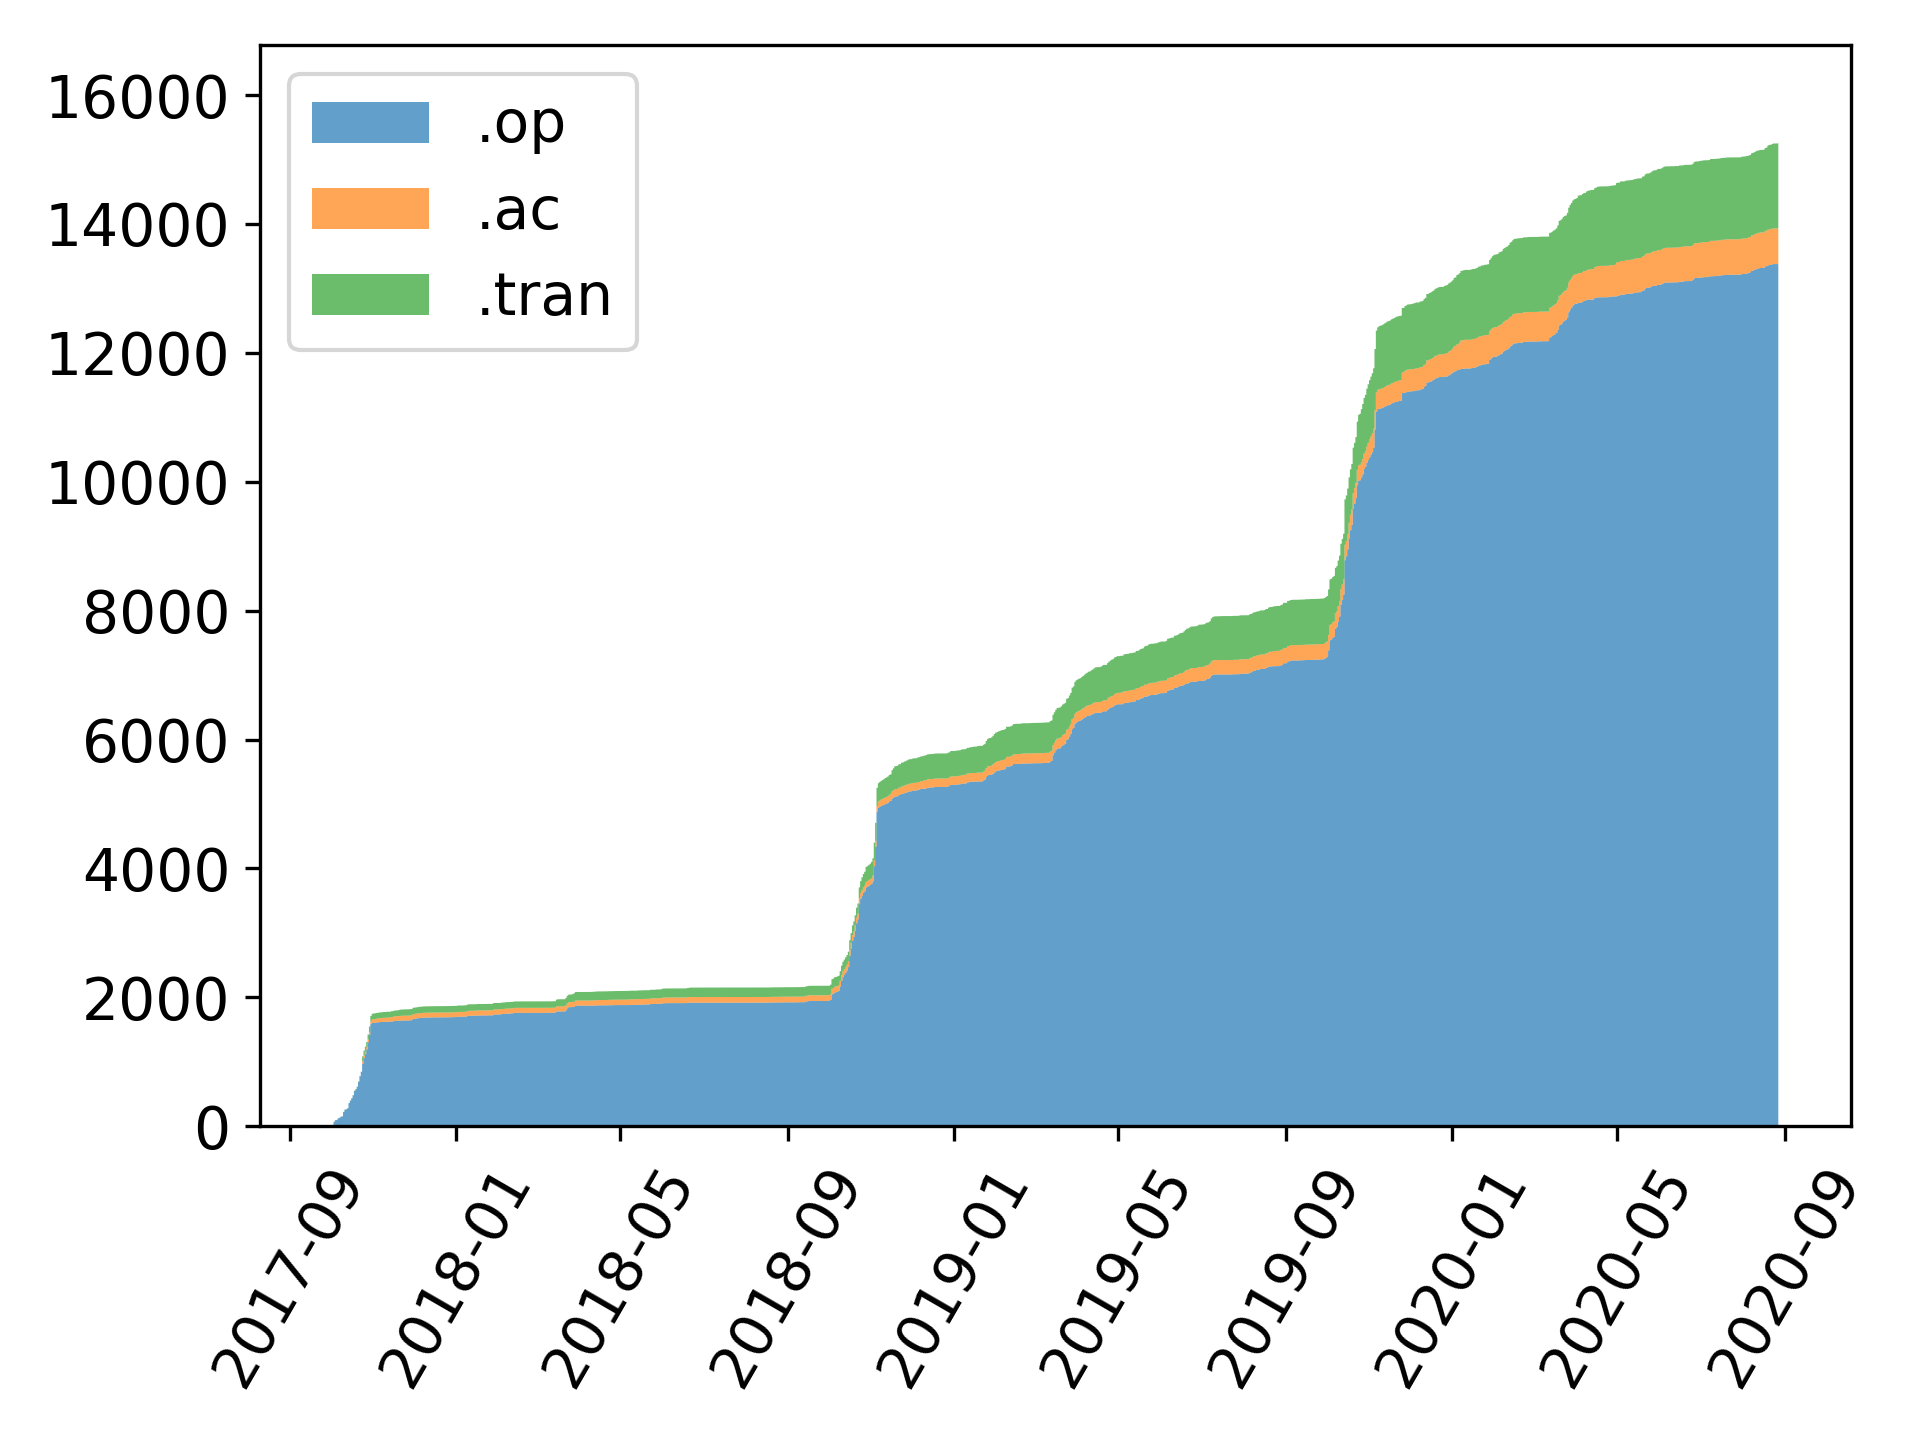
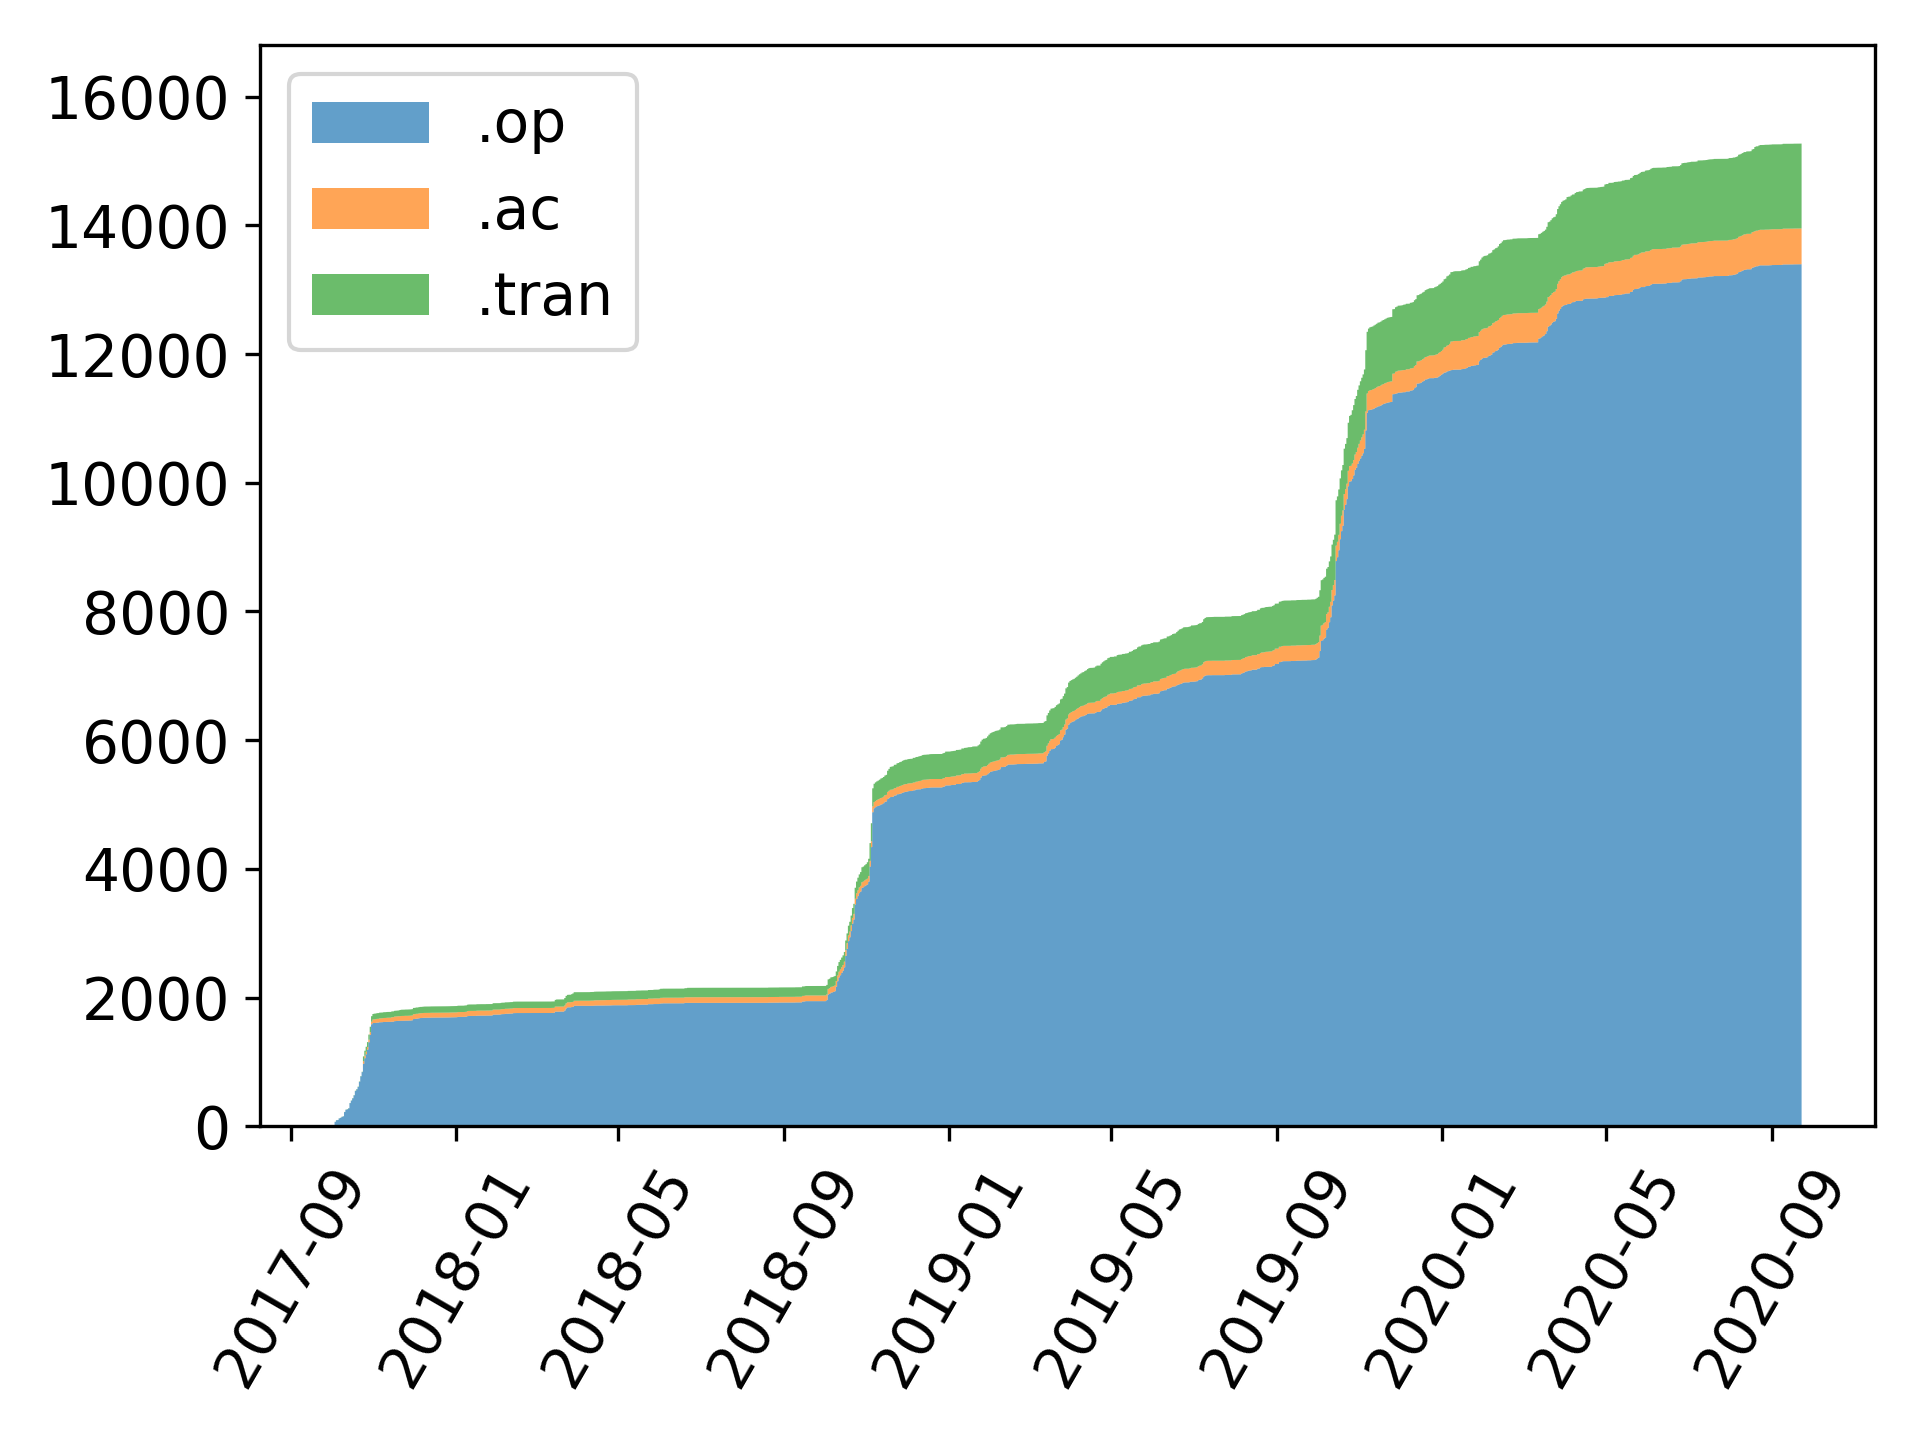
Update Sep. 29, 2020

diff --git a/README.md b/README.md
@@ -6,7 +6,7 @@
 
 
 ### Analysis performed
-Currently, SpicePyBot has been used by 1185 users for a total of 15410 analysis. Fig. 1 shows the percentages of the different analysis (`.op` = operating point, `.tran` = transient, `.ac` = alternatig current).
+Currently, SpicePyBot has been used by 1186 users for a total of 15433 analysis. Fig. 1 shows the percentages of the different analysis (`.op` = operating point, `.tran` = transient, `.ac` = alternatig current).
 
 <p align="center">
 <img src="./img/fig4_Analysis_percentage.png" width="450">
